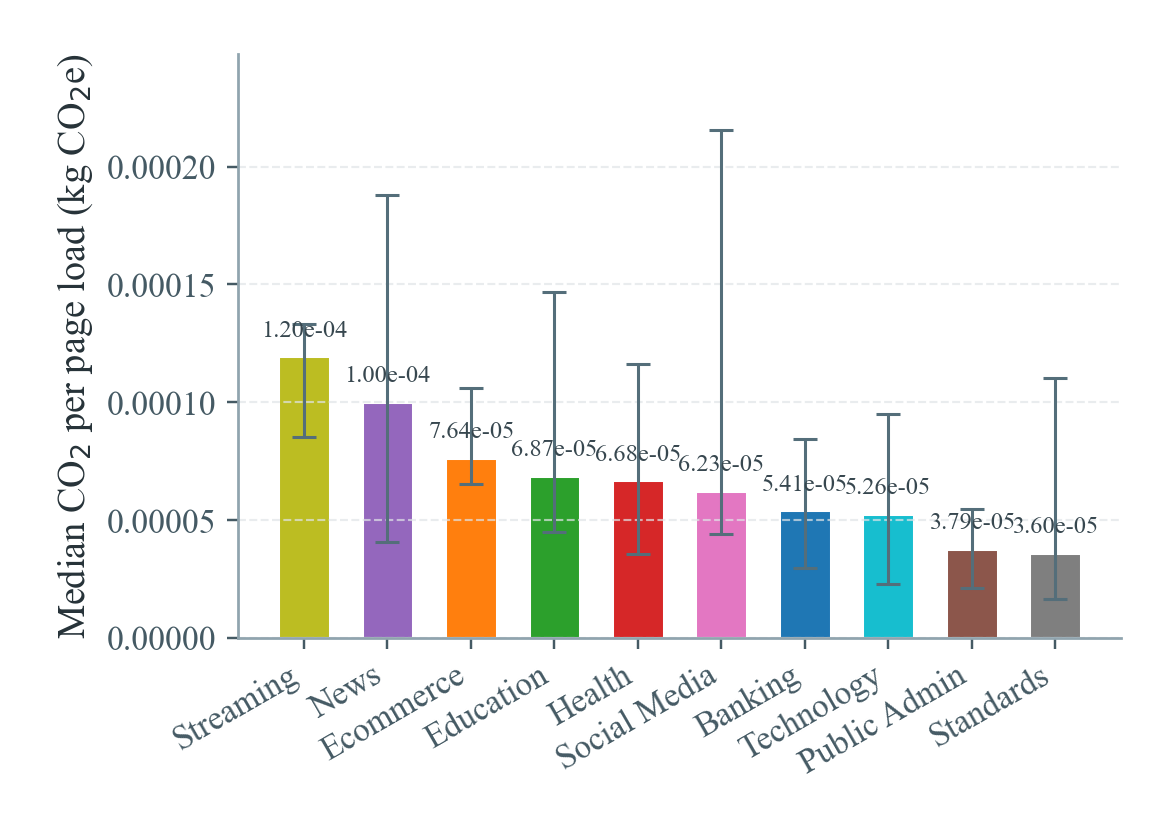
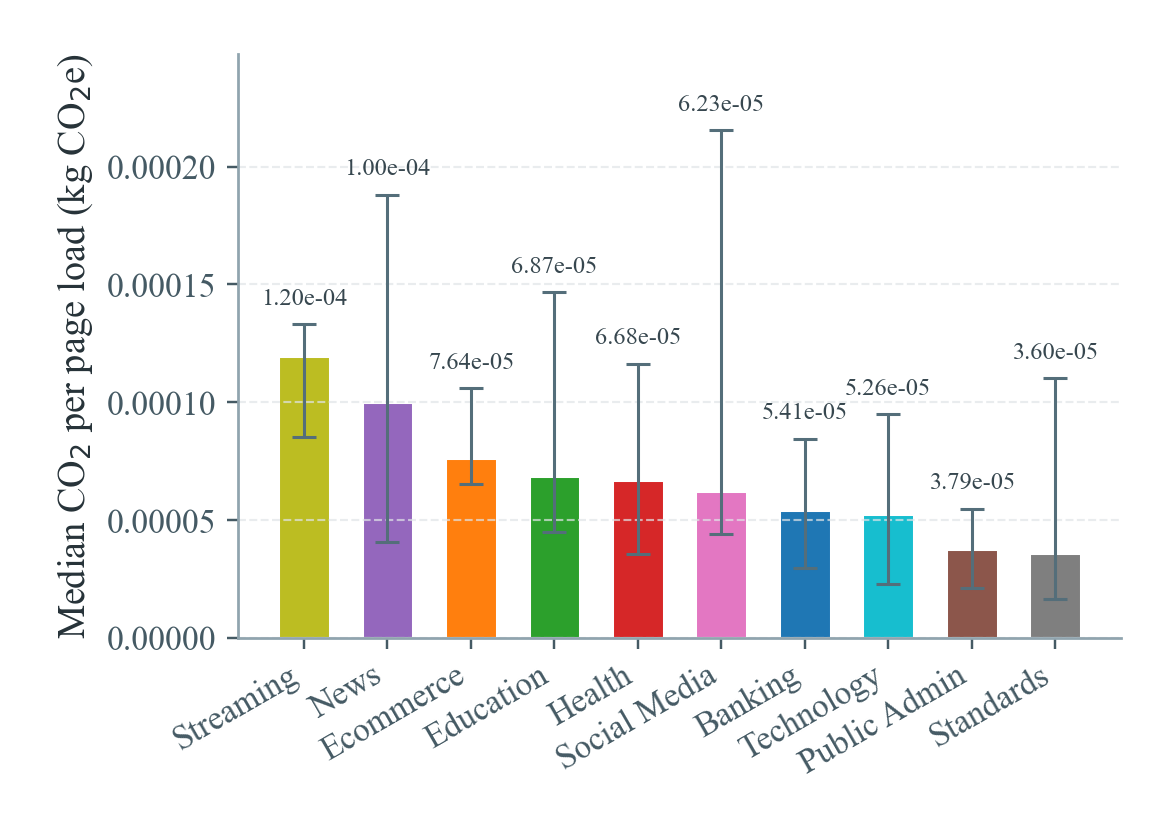
colocar las etiquetas de fig_cfp_by_category encima de la barra de error, no de la barra, para que no se solapen

diff --git a/src/run_analysis.py b/src/run_analysis.py
@@ -927,10 +927,13 @@ def _plot_cfp_by_category(path: Path, web_category_summary: list[dict[str, Any]]
     ax.margins(y=0.15)
 
     ymax = max(v + err for v, err in zip(values, upper_err)) or 1
-    for bar, value in zip(bars, values):
+    # Label above the error bar's own cap, not just above the bar itself -
+    # otherwise the text sits inside (or right on top of) the error bar
+    # whenever the IQR is wide, which is illegible.
+    for bar, value, err in zip(bars, values, upper_err):
         ax.text(
             bar.get_x() + bar.get_width() / 2,
-            bar.get_height() + ymax * 0.03,
+            bar.get_height() + err + ymax * 0.03,
             f"{value:.2e}",
             ha="center",
             va="bottom",
